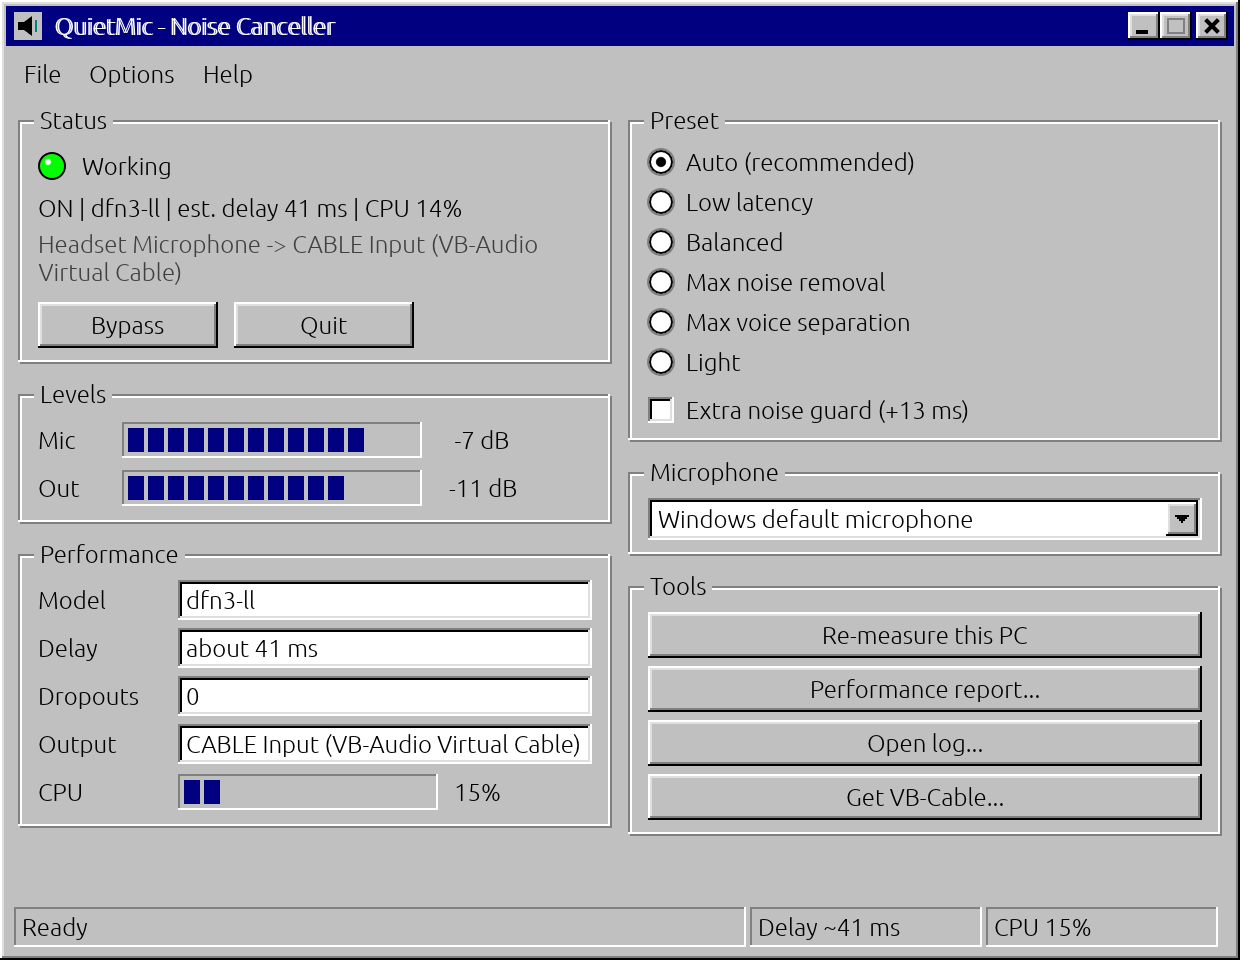
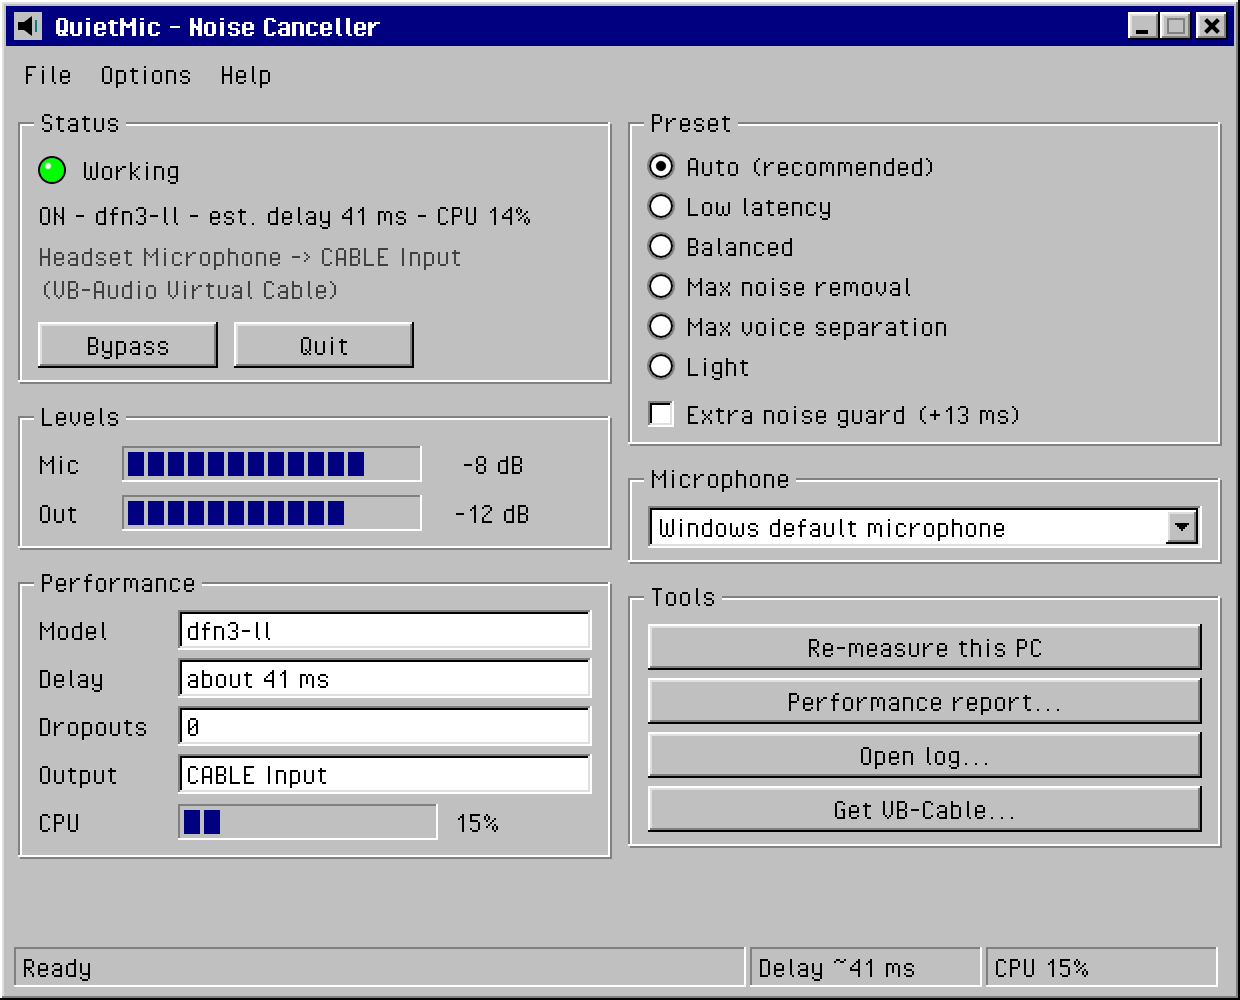
Retro pixel font (Pixel Operator, CC0) for the Windows 95 window

diff --git a/crates/qm-app/src/ui/app.rs b/crates/qm-app/src/ui/app.rs
@@ -11,7 +11,7 @@ use super::widgets::*;
 /// Builds the backend once the window exists (the tray icon needs the running event loop and the egui context).
 pub type BackendFactory = Box<dyn FnOnce(&egui::Context) -> Box<dyn Backend>>;
 
-pub const WINDOW_SIZE: [f32; 2] = [620.0, 480.0];
+pub const WINDOW_SIZE: [f32; 2] = [620.0, 500.0];
 
 #[derive(Default)]
 pub struct WindowOptions {
@@ -33,6 +33,24 @@ struct RetroApp {
     quitting: bool,
 }
 
+/// Pixel Operator (CC0): a proportional bitmap-style font close to the classic Windows UI face. Native size is 16 px.
+fn install_font(ctx: &egui::Context) {
+    let mut fonts = egui::FontDefinitions::default();
+    fonts.font_data.insert(
+        "pixel_operator".to_owned(),
+        std::sync::Arc::new(egui::FontData::from_static(include_bytes!("../../../../assets/fonts/PixelOperator.ttf"))),
+    );
+    for family in [egui::FontFamily::Proportional, egui::FontFamily::Monospace] {
+        fonts.families.entry(family).or_default().insert(0, "pixel_operator".to_owned());
+    }
+    ctx.set_fonts(fonts);
+}
+
+/// "CABLE Input (VB-Audio Virtual Cable)" -> "CABLE Input" so it fits the small field.
+fn short_name(name: &str) -> String {
+    name.split(" (").next().unwrap_or(name).to_string()
+}
+
 fn level_frac(level: f32) -> (f32, String) {
     let db = 20.0 * level.max(1e-5).log10();
     let text = if db < -80.0 { "  -- dB".to_string() } else { format!("{db:>5.0} dB") };
@@ -42,6 +60,7 @@ fn level_frac(level: f32) -> (f32, String) {
 impl RetroApp {
     fn new(cc: &eframe::CreationContext<'_>, make: BackendFactory, opts: &WindowOptions) -> Self {
         let mut backend = make(&cc.egui_ctx);
+        install_font(&cc.egui_ctx);
         let mut style = (*cc.egui_ctx.global_style()).clone();
         style.spacing.item_spacing = Vec2::new(6.0, 4.0);
         style.visuals.override_text_color = Some(DARK);
@@ -153,7 +172,7 @@ impl RetroApp {
                     ("Model", if self.snap.model.is_empty() { "-".into() } else { self.snap.model.clone() }),
                     ("Delay", if self.snap.est_delay_ms > 0.0 { format!("about {:.0} ms", self.snap.est_delay_ms) } else { "-".into() }),
                     ("Dropouts", self.snap.dropouts.to_string()),
-                    ("Output", if self.snap.output_name.is_empty() { "-".into() } else { self.snap.output_name.clone() }),
+                    ("Output", if self.snap.output_name.is_empty() { "-".into() } else { short_name(&self.snap.output_name) }),
                 ];
                 for (k, v) in rows {
                     ui.horizontal(|ui| {
@@ -218,7 +237,7 @@ impl RetroApp {
         if let Some(h) = hover_help {
             self.help = h;
         } else {
-            self.help = if self.snap.vb_cable_found || self.snap.phase != Phase::Error { "Ready".into() } else { "Install VB-Cable, then pick CABLE Output as the microphone in your calls.".into() };
+            self.help = if self.snap.vb_cable_found || self.snap.phase != Phase::Error { "Ready".into() } else { "Install VB-Cable, then pick CABLE Output.".into() };
         }
     }
 

diff --git a/crates/qm-app/src/win/controller.rs b/crates/qm-app/src/win/controller.rs
@@ -178,7 +178,7 @@ fn refresh_status(app: &App, session: &Session) {
     let period_ms = st.capture_period_frames as f64 * 1000.0 / 48_000.0;
     // model + capture period + ring target + render period (approximate end-to-end figure)
     let est_ms = en.delay_ms + period_ms + DEFAULT_TARGET_FILL as f64 * 1000.0 / 48_000.0 + period_ms;
-    let detail = format!("{} -> {} | dropouts {}", st.input_name, st.output_name, st.underruns + st.overflows);
+    let detail = format!("{} -> {} - dropouts {}", st.input_name, st.output_name, st.underruns + st.overflows);
     *app.live.lock().unwrap() = Live {
         model: en.model.to_string(),
         est_delay_ms: est_ms as f32,
@@ -196,7 +196,7 @@ fn refresh_status(app: &App, session: &Session) {
     } else {
         app.set_status(
             Phase::Running,
-            format!("ON | {} | est. delay {:.0} ms | CPU {:.0}%", en.model, est_ms, en.load * 100.0),
+            format!("ON - {} - est. delay {:.0} ms - CPU {:.0}%", en.model, est_ms, en.load * 100.0),
             detail,
         );
     }
@@ -229,7 +229,7 @@ fn run(app: App, rx: mpsc::Receiver<Cmd>) {
                         log(format!("start failed: {msg}"));
                         last_error_logged = msg.clone();
                     }
-                    app.set_status(Phase::Error, format!("Not running: {msg}"), "Install it (Get VB-Cable), then pick CABLE Output as the microphone in your calls. Retrying every few seconds.");
+                    app.set_status(Phase::Error, format!("Not running: {msg}"), "Install VB-Cable, then choose CABLE Output as your microphone.");
                     need_start = true;
                     retry_at = Some(Instant::now() + Duration::from_secs(3));
                 }

diff --git a/crates/qm-app/src/ui/demo.rs b/crates/qm-app/src/ui/demo.rs
@@ -21,7 +21,7 @@ impl DemoBackend {
         };
         let snap = Snapshot {
             phase,
-            headline: "ON | dfn3-ll | est. delay 41 ms | CPU 14%".into(),
+            headline: "ON - dfn3-ll - est. delay 41 ms - CPU 14%".into(),
             detail: "Headset Microphone -> CABLE Input (VB-Audio Virtual Cable)".into(),
             model: "dfn3-ll".into(),
             est_delay_ms: 41.0,
@@ -47,7 +47,7 @@ impl DemoBackend {
         let mut d = Self { t0: Instant::now(), snap };
         if phase == Phase::Error {
             d.snap.headline = "Not running: VB-Audio Virtual Cable is not installed".into();
-            d.snap.detail = "Install it (Tools > Get VB-Cable), then pick CABLE Output as the microphone in your calls.".into();
+            d.snap.detail = "Install VB-Cable, then choose CABLE Output as your microphone.".into();
             d.snap.model.clear();
             d.snap.output_name.clear();
             d.snap.cpu_pct = 0.0;
@@ -89,7 +89,7 @@ impl Backend for DemoBackend {
             UiCmd::SetBypass(b) => {
                 self.snap.bypass = b;
                 self.snap.phase = if b { Phase::Bypass } else { Phase::Running };
-                self.snap.headline = if b { "BYPASS: microphone passes through unprocessed".into() } else { "ON | dfn3-ll | est. delay 41 ms | CPU 14%".into() };
+                self.snap.headline = if b { "BYPASS: microphone passes through unprocessed".into() } else { "ON - dfn3-ll - est. delay 41 ms - CPU 14%".into() };
             }
             UiCmd::SetGuard(g) => self.snap.guard = g,
             UiCmd::SetAutostart(a) => self.snap.autostart = a,

diff --git a/crates/qm-app/src/ui/widgets.rs b/crates/qm-app/src/ui/widgets.rs
@@ -5,7 +5,7 @@ use eframe::egui::{self, Align2, Color32, FontId, Id, Order, Pos2, Rect, Respons
 
 use super::theme::*;
 
-pub const FONT_SIZE: f32 = 12.0;
+pub const FONT_SIZE: f32 = 16.0;
 
 pub fn font() -> FontId {
     FontId::proportional(FONT_SIZE)

diff --git a/BUILD_SPEC.md b/BUILD_SPEC.md
@@ -476,5 +476,5 @@ DPDFNet gives the best noise removal on rain, barks and distant voices but costs
 - The window only talks to a `Backend` trait (`ui/model.rs`: `Snapshot` in, `UiCmd` out). `ui/demo.rs` simulates it; `win/backend.rs` connects the controller (audio engine), settings and the tray.
 - Tray (`win/tray.rs`) reports actions as `TrayOut`; left click shows the window, X / Alt+F4 hides it to the tray, `--minimized` starts hidden (used by "Start with Windows"). If the window cannot be created (no OpenGL) the app falls back to tray-only mode; `--tray-only` forces it.
 - Level meters come from per-block peaks measured in the capture thread (`qm-win::Stats::{input_peak, output_peak}`), shown on a -60..0 dB scale with peak-hold decay.
-- Font: egui's bundled proportional font at 12 px. A bitmap font in the style of MS Sans Serif would complete the look (needs a font file; ask the owner before adding).
+- Font: **Pixel Operator** (CC0, `assets/fonts/PixelOperator.ttf`, provenance and licence in `assets/fonts/README.md`), embedded in the exe, used at its native 16 px so it stays crisp. The long status messages were shortened because this font is wider than the modern one.
 - Not verified on Windows yet: window creation under OpenGL on real hardware, tray interplay with the egui event loop (tray created inside the app-creator callback; clicks wake the loop through `Context::request_repaint`), hidden-window start.

diff --git a/assets/fonts/README.md b/assets/fonts/README.md
@@ -1,0 +1,5 @@
+# Fonts
+
+`PixelOperator.ttf`: Pixel Operator by Jayvee Enaguas (HarvettFox96), released under CC0 1.0 (public domain), see
+`PixelOperator-LICENSE-CC0.txt`. This copy comes from the raylib/raygui repository (`styles/genesis/`), which ships it
+next to the CC0 legal text. Used for the Windows 95-style window; embedded into the executable at build time.
